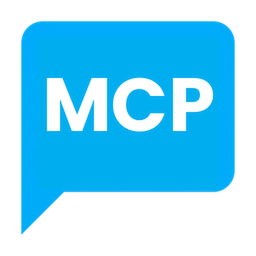
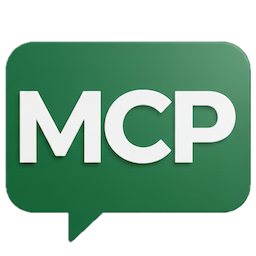
fix: Address ConversationEntity migration issues and update branding
- Add asyncio.Lock() to prevent race condition during shared server init
- Add port conflict error handling for clearer diagnostics
- Re-enable gap-filling with re-entrancy guard to prevent recursion
- Skip gap-filling on first index generation (startup timing)
- Add JSON repair logic for incomplete LLM responses
- Update icons to remove Home Assistant Blue per upstream feedback

Related to v0.7.0 ConversationEntity migration.

diff --git a/custom_components/mcp_assist/index_manager.py b/custom_components/mcp_assist/index_manager.py
@@ -41,6 +41,8 @@ class IndexManager:
         self._last_updated: Optional[datetime] = None
         self._refresh_task: Optional[asyncio.Task] = None
         self._refresh_debounce_seconds = 60
+        self._gap_filling_in_progress = False  # Re-entrancy guard for gap-filling
+        self._first_index_generated = False  # Skip gap-filling on first index (startup)
 
     async def start(self) -> None:
         """Start index manager and set up event listeners."""
@@ -153,12 +155,23 @@ class IndexManager:
         # Perform LLM gap-filling for entities without device_class (if enabled)
         inferred_types = {}
         if not isinstance(entities_without_device_class, Exception) and entities_without_device_class:
-            # Check if gap-filling is enabled in config
-            gap_filling_enabled = await self._is_gap_filling_enabled()
-            if gap_filling_enabled:
-                inferred_types = await self._infer_entity_types(entities_without_device_class)
+            # Skip gap-filling on first index generation (LLM may not be ready at startup)
+            if not self._first_index_generated:
+                _LOGGER.info("Skipping gap-filling on first index generation (startup)")
+            # Check if gap-filling is already in progress (prevent recursion)
+            elif self._gap_filling_in_progress:
+                _LOGGER.debug("Gap-filling already in progress, skipping to prevent recursion")
             else:
-                _LOGGER.debug("Gap-filling disabled in config, skipping entity type inference")
+                # Check if gap-filling is enabled in config
+                gap_filling_enabled = await self._is_gap_filling_enabled()
+                if gap_filling_enabled:
+                    inferred_types = await self._infer_entity_types(entities_without_device_class)
+                else:
+                    _LOGGER.debug("Gap-filling disabled in config, skipping entity type inference")
+
+        # Mark first index as generated
+        if not self._first_index_generated:
+            self._first_index_generated = True
 
         # Build index dict
         index = {
@@ -575,19 +588,23 @@ Example:
 
 Focus on meaningful categories that would help discover relevant entities for user queries."""
 
-        # TEMPORARY FIX: Disable gap-filling to avoid recursion issues during ConversationEntity migration
-        _LOGGER.debug("Gap-filling temporarily disabled during entity migration")
-        return {}
+        # Set re-entrancy guard to prevent recursion
+        # (gap-filling calls agent → agent builds prompt with index → index calls gap-filling)
+        self._gap_filling_in_progress = True
 
-        # TODO: Re-enable once ConversationEntity recursion is resolved
-        # try:
-        #     # Call LLM via conversation agent
-        #     inferred = await self._call_llm_for_inference(prompt)
-        #     _LOGGER.info("LLM gap-filling completed: found %d inferred types", len(inferred))
-        #     return inferred
-        # except Exception as err:
-        #     _LOGGER.warning("LLM gap-filling failed: %s. Index will not include inferred types.", err)
-        #     return {}
+        try:
+            # Call LLM via conversation agent
+            # TODO: Future improvement - use dedicated async_call_llm_direct() method
+            # instead of full async_process() to avoid conversation context overhead
+            inferred = await self._call_llm_for_inference(prompt)
+            _LOGGER.info("LLM gap-filling completed: found %d inferred types", len(inferred))
+            return inferred
+        except Exception as err:
+            _LOGGER.warning("LLM gap-filling failed: %s. Index will not include inferred types.", err)
+            return {}
+        finally:
+            # Always clear the flag, even if exception occurred
+            self._gap_filling_in_progress = False
 
     async def _call_llm_for_inference(self, prompt: str) -> Dict[str, Any]:
         """Call the user's configured LLM to perform inference.
@@ -631,7 +648,7 @@ Focus on meaningful categories that would help discover relevant entities for us
             agent_id=entry.entry_id,  # Use the entry ID as agent ID
         )
 
-        # Call the agent
+        # Call the agent (uses configured max_tokens - user should set 2000+ for gap-filling)
         _LOGGER.debug("Calling LLM for entity type inference...")
         response = await agent.async_process(conversation_input)
 
@@ -686,17 +703,32 @@ Focus on meaningful categories that would help discover relevant entities for us
                     raise ValueError(f"Category {category} is not a dict")
                 if "pattern" not in data or "count" not in data:
                     raise ValueError(f"Category {category} missing required fields")
+        except json.JSONDecodeError as e:
+            # JSON parsing failed - try to repair incomplete JSON
+            _LOGGER.warning("Gap-filling JSON parsing failed at position %d: %s", e.pos, e.msg)
+            _LOGGER.debug("Response text (first 500 chars): %s", response_text[:500])
 
-            _LOGGER.debug("Successfully parsed %d inferred types from LLM", len(parsed))
-            return parsed
+            # Attempt to repair by closing incomplete JSON
+            repaired_text = response_text
+            # Count open braces
+            open_braces = repaired_text.count('{')
+            close_braces = repaired_text.count('}')
 
-        except json.JSONDecodeError as err:
-            _LOGGER.error("Failed to parse LLM response as JSON: %s", err)
-            _LOGGER.debug("LLM response was: %s", response_text[:500])
-            raise ValueError(f"Invalid JSON in LLM response: {err}")
-        except ValueError as err:
-            _LOGGER.error("Invalid structure in LLM response: %s", err)
-            raise
+            if open_braces > close_braces:
+                _LOGGER.info("Attempting to repair incomplete JSON (adding %d closing braces)", open_braces - close_braces)
+                repaired_text += '}' * (open_braces - close_braces)
+
+                try:
+                    parsed = json.loads(repaired_text)
+                    _LOGGER.info("✅ JSON repair successful - recovered %d categories", len(parsed))
+                    return parsed
+                except json.JSONDecodeError:
+                    _LOGGER.error("JSON repair failed, gap-filling will be skipped this cycle")
+
+            raise ValueError(f"Invalid JSON in LLM response: {e.msg}")
+
+        _LOGGER.debug("Successfully parsed %d inferred types from LLM", len(parsed))
+        return parsed
 
     async def _is_gap_filling_enabled(self) -> bool:
         """Check if gap-filling is enabled in config.

diff --git a/custom_components/mcp_assist/__init__.py b/custom_components/mcp_assist/__init__.py
@@ -25,44 +25,60 @@ async def async_setup_entry(hass: HomeAssistant, entry: ConfigEntry) -> bool:
 
     hass.data.setdefault(DOMAIN, {})
 
+    # Create lock for server initialization if it doesn't exist
+    if "server_init_lock" not in hass.data[DOMAIN]:
+        hass.data[DOMAIN]["server_init_lock"] = asyncio.Lock()
+
     try:
-        # Handle shared MCP server and index manager
-        if "shared_mcp_server" not in hass.data[DOMAIN]:
-            # First entry - create shared MCP server and index manager
-            mcp_port = entry.data.get(CONF_MCP_PORT, DEFAULT_MCP_PORT)
-            _LOGGER.info("Creating shared MCP server on port %d", mcp_port)
+        # Use lock to prevent race condition when multiple profiles load simultaneously
+        async with hass.data[DOMAIN]["server_init_lock"]:
+            # Handle shared MCP server and index manager
+            if "shared_mcp_server" not in hass.data[DOMAIN]:
+                # First entry - create shared MCP server and index manager
+                mcp_port = entry.data.get(CONF_MCP_PORT, DEFAULT_MCP_PORT)
+                _LOGGER.info("Creating shared MCP server on port %d", mcp_port)
 
-            # Create and start index manager
-            index_manager = IndexManager(hass)
-            await index_manager.start()
-            hass.data[DOMAIN]["index_manager"] = index_manager
+                # Create and start index manager
+                index_manager = IndexManager(hass)
+                await index_manager.start()
+                hass.data[DOMAIN]["index_manager"] = index_manager
 
-            # Create and start MCP server
-            mcp_server = MCPServer(hass, mcp_port, entry)
-            await mcp_server.start()
+                # Create and start MCP server
+                mcp_server = MCPServer(hass, mcp_port, entry)
+                try:
+                    await mcp_server.start()
+                except OSError as e:
+                    if "Address already in use" in str(e):
+                        _LOGGER.error(
+                            "Port %d is already in use. Either change CONF_MCP_PORT in your "
+                            "configuration or stop the service using port %d.",
+                            mcp_port, mcp_port
+                        )
+                        raise ConfigEntryNotReady(f"Port {mcp_port} already in use") from e
+                    raise
 
-            hass.data[DOMAIN]["shared_mcp_server"] = mcp_server
-            hass.data[DOMAIN]["mcp_refcount"] = 0
-            hass.data[DOMAIN]["mcp_port"] = mcp_port
+                hass.data[DOMAIN]["shared_mcp_server"] = mcp_server
+                hass.data[DOMAIN]["mcp_refcount"] = 0
+                hass.data[DOMAIN]["mcp_port"] = mcp_port
 
-            _LOGGER.info("✅ Shared MCP server and index manager created successfully")
-        else:
-            # Reuse existing MCP server
-            mcp_port = hass.data[DOMAIN]["mcp_port"]
-            _LOGGER.info("Reusing existing shared MCP server on port %d", mcp_port)
+                _LOGGER.info("✅ Shared MCP server and index manager created successfully")
+            else:
+                # Reuse existing MCP server
+                mcp_port = hass.data[DOMAIN]["mcp_port"]
+                _LOGGER.info("Reusing existing shared MCP server on port %d", mcp_port)
 
-            # Warn if user tried to configure different port
-            requested_port = entry.data.get(CONF_MCP_PORT, DEFAULT_MCP_PORT)
-            if requested_port != mcp_port:
-                _LOGGER.warning(
-                    "Profile '%s' requested port %d, but using shared port %d. "
-                    "All profiles share the same MCP server.",
-                    profile_name, requested_port, mcp_port
-                )
+                # Warn if user tried to configure different port
+                requested_port = entry.data.get(CONF_MCP_PORT, DEFAULT_MCP_PORT)
+                if requested_port != mcp_port:
+                    _LOGGER.warning(
+                        "Profile '%s' requested port %d, but using shared port %d. "
+                        "All profiles share the same MCP server.",
+                        profile_name, requested_port, mcp_port
+                    )
 
-        # Increment reference count
-        hass.data[DOMAIN]["mcp_refcount"] += 1
-        _LOGGER.debug("MCP server refcount: %d", hass.data[DOMAIN]["mcp_refcount"])
+            # Increment reference count
+            hass.data[DOMAIN]["mcp_refcount"] += 1
+            _LOGGER.debug("MCP server refcount: %d", hass.data[DOMAIN]["mcp_refcount"])
 
         # Store metadata (per entry)
         hass.data[DOMAIN][entry.entry_id] = {
